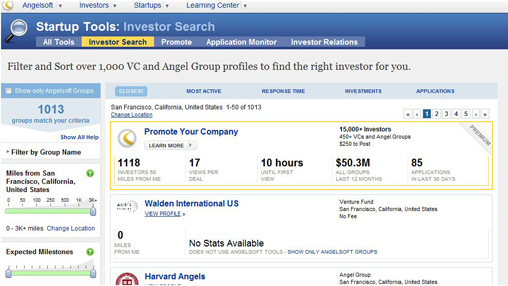
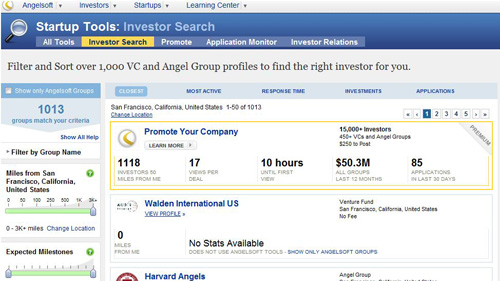
Re-cropped images to more closely fit 16:9 ratio, CSS decoration bullet characters, blinking cursor

diff --git a/index.html b/index.html
@@ -1,24 +1,23 @@
 
 <!DOCTYPE html>
 <html>
+    <!-- Copyright 2017 Tony Changho. All rights reserved. -->
+
     <head>
         <title>Tony Changho</title>
 
         <link rel="stylesheet" href="reset.css">
         <link rel="stylesheet" href="style.css">
         <link rel="stylesheet" href="nerd.css">
-        <link href="https://fonts.googleapis.com/css?family=Droid+Sans|Roboto|Roboto+Condensed" rel="stylesheet">
+        <link href="https://fonts.googleapis.com/css?family=Droid+Sans+Mono" rel="stylesheet">
 
         <meta name="viewport" content="width=device-width, initial-scale=1">
     </head>
     <body>
 
-        <!--<div id="body-bg"></div>-->
-
         <div id="main">
             <header>
-                <!--<h1 title="*Once the W3C Custom Element spec finally comes out of 'Working Draft' status">&lt;tony-changho&gt;</h1>-->
-                <h1>Tony Changho</h1>
+                <h1><span class="name">Tony Changho</span></h1>
             </header>
 
             <div id="content">
@@ -64,7 +63,7 @@
                     <ul>
                         <li>
                             <div class="screenshot">
-                                <img src="images/citia.png">
+                                <img src="images/citia.jpg">
                             </div>
                             <aside>
                                 <h3>Citia</h3>
@@ -101,13 +100,13 @@
                                     <li>Developed interfaces for managing early-stage invesrment deal flow, using XHTML and AJAX on top of a Java/PostgreSQL back-end</li>
                                     <li>Implemented a dynamic map using the Google Maps JavaScript API and an XML feed to periodically pan to coordinate markers, highlighting global user activity nearly in real-time</li>
                                     <li>Designed the hierarchy for the entire platform's page templating system, developed in Facelets to follow proper semantics and validate as XHTML 1.0 Transitional</li>
-                                    <li>Refactored the application front-end to support internationalization and localization, implementing flexible layouts to accommodate variable-length copy, client-side code to handle non-English strings, and back-end logic to return the correct copy based on browser locale settings</li>
+                                    <li>Refactored the application front-end to support internationalization and localization, implementing flexible layouts to accommodate variable-length text, client-side code to handle non-English strings, and back-end logic to return the correct copy based on browser locale settings</li>
                                 </ul>
                             </aside>
                         </li>
                     </ul>
                 </section>
-        </div>
+            </div>
         </div>
 
         <!--<footer>

diff --git a/nerd.css b/nerd.css
@@ -2,8 +2,31 @@ body {
     background-color: black;
 }
 
+header {
+    text-align: center;
+}
+
 h1 {
+    display: inline-block;
+    font-size: 4.75em;
     word-spacing: -1ch;
+}
+
+@keyframes cursor-blink {
+    from {
+        color: rgb(255, 255, 255);
+    }
+    to {
+        color: rgb(0, 0, 0);
+    }
+}
+
+h1:after {
+    /*animation: cursor-blink 1s step-end 1s infinite forwards;*/
+    animation: cursor-blink 1s infinite;
+    content: "‐";
+    /*transition: color 1s;*/
+    vertical-align: sub;
 }
 
 h1, h2 {
@@ -11,32 +34,37 @@ h1, h2 {
     text-transform: lowercase;
 }
 
-h1:before, h2:before {
-    content: '<';
+h1 .name:before, h2:before {
+    content: "<";
 }
 
-h1:after, h2:after {
-    content: '>';
+h1 .name:after, h2:after {
+    content: ">";
 }
 
 #main {
     color: lawngreen;
-    font-family: monospace;
+    font-family: "Droid Sans Mono", monospace;
 }
 
 #content > section {
     background-color: transparent;
     box-shadow: none;
+    margin: auto;
     padding-bottom: 0;
 }
 
 #content > section:before {
     color: white;
-    content: '================================================================================';
+    content: "================================================================================";
     display: block;
     margin-bottom: 1.25em;
     overflow: hidden;
     text-align: center;
+}
+
+h2 {
+    margin-bottom: 0.75em;
 }
 
 blockquote {
@@ -52,6 +80,10 @@ blockquote {
 }
 
 #sites .screenshot {
+    /*border: 0.125em solid white;*/
+}
+
+#sites .screenshot img {
     border: 0.125em solid white;
 }
 
@@ -61,11 +93,16 @@ blockquote {
 }
 
 #sites aside li {
-    padding-left: 1em;
-    text-indent: -1em;
+    padding-left: 2ch;
+    text-indent: -2ch;
 }
 
 #sites aside li:before {
-    content: '♠ ';
+    content: "◊ ";
 }
 
+@media (max-width: 617px) {
+    h1 {
+        font-size: 3.125em;
+    }
+}

diff --git a/style.css b/style.css
@@ -24,10 +24,6 @@ body {
     width: 600px;
 }
 
-#main > * {
-    /*border-bottom: 1px solid blue;*/
-}
-
 h1 {
     color: white;
     font-size: 5em;
@@ -56,6 +52,10 @@ h2 {
     font-size: 1.5em;
     margin-bottom: 0.5em;
     /*     font-weight: bold; */
+}
+
+p {
+    margin-bottom: 1em;
 }
 
 #testimonials li {
@@ -91,8 +91,10 @@ cite {
 }
 
 #sites .screenshot {
+    box-sizing: content-box;
     height: 0;
-    overflow: hidden;
+    /*overflow: hidden;*/
+    margin-bottom: 1em;
     padding-bottom: 56.25%;
     text-align: center;
     width: 100%;
